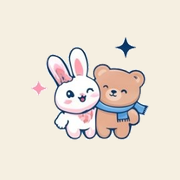
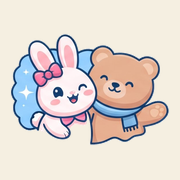
Ikon aplikasi pakai maskot kelinci dan beruang yang lebih besar
Claude-Session: https://claude.ai/code/session_01RWuWjAFcXxW7b1iJdCdAtn

diff --git a/sw.js b/sw.js
@@ -2,7 +2,7 @@
    - Membuat aplikasi bisa dipasang di HP dan tetap terbuka saat sinyal putus (cadangan offline).
    - Menampilkan notifikasi push saat pasangan mencatat pemasukan atau pengeluaran. */
 'use strict';
-const CACHE = 'pyojem-v1';
+const CACHE = 'pyojem-v2';
 const SHELL = ['./', 'index.html', 'styles.css', 'config.js', 'icons.js', 'data.js', 'app.js', 'manifest.webmanifest',
   'assets/maskot.png', 'assets/avatar-bersama.png', 'assets/ikon-192.png'];
 
